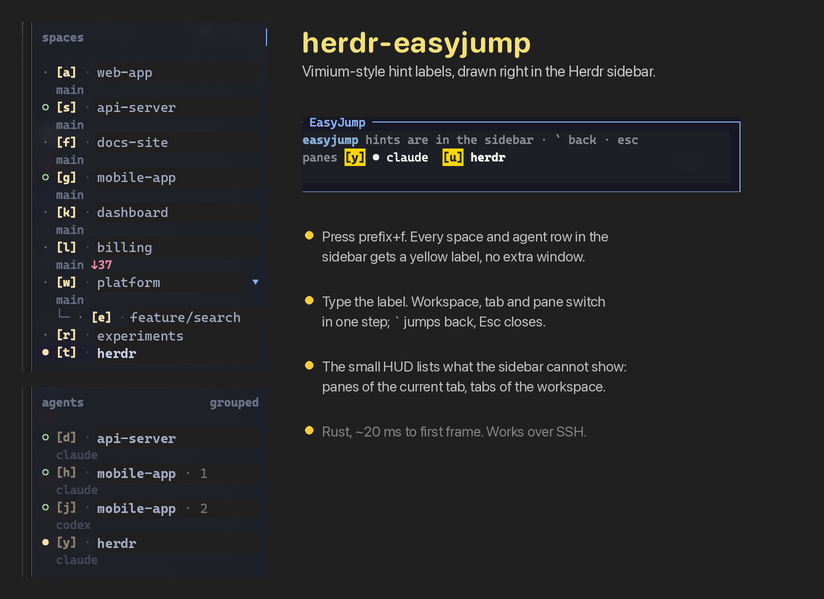
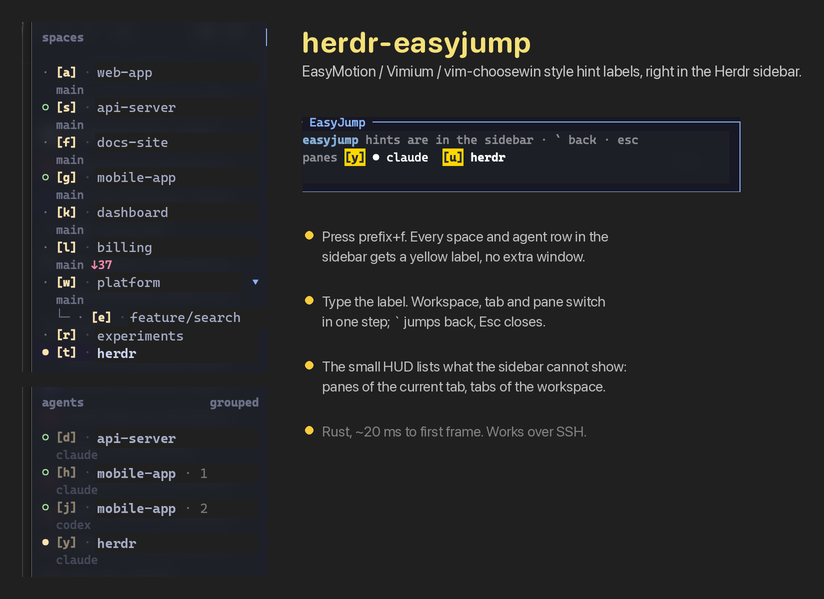
Describe by function first, list EasyMotion / Vimium / vim-choosewin as analogues
Claude-Session: https://claude.ai/code/session_018UZZPMSisE9wxN8rynXYEm

Changed region(s): [[0.3641, 0.0902, 0.9709, 0.1503]]

diff --git a/README.md b/README.md
@@ -1,6 +1,8 @@
 # herdr-easyjump
 
-Vimium-style hint jump for [Herdr](https://herdr.dev).
+Hint-label jumping for [Herdr](https://herdr.dev), in the spirit of
+EasyMotion / hop.nvim / Vimium / vim-choosewin: press a key, type a letter,
+land on any space, agent, pane, or tab.
 
 Press one key and every space and agent row **in the sidebar itself** gets a
 yellow label. Type the label and you are there. Panes of the current tab and
